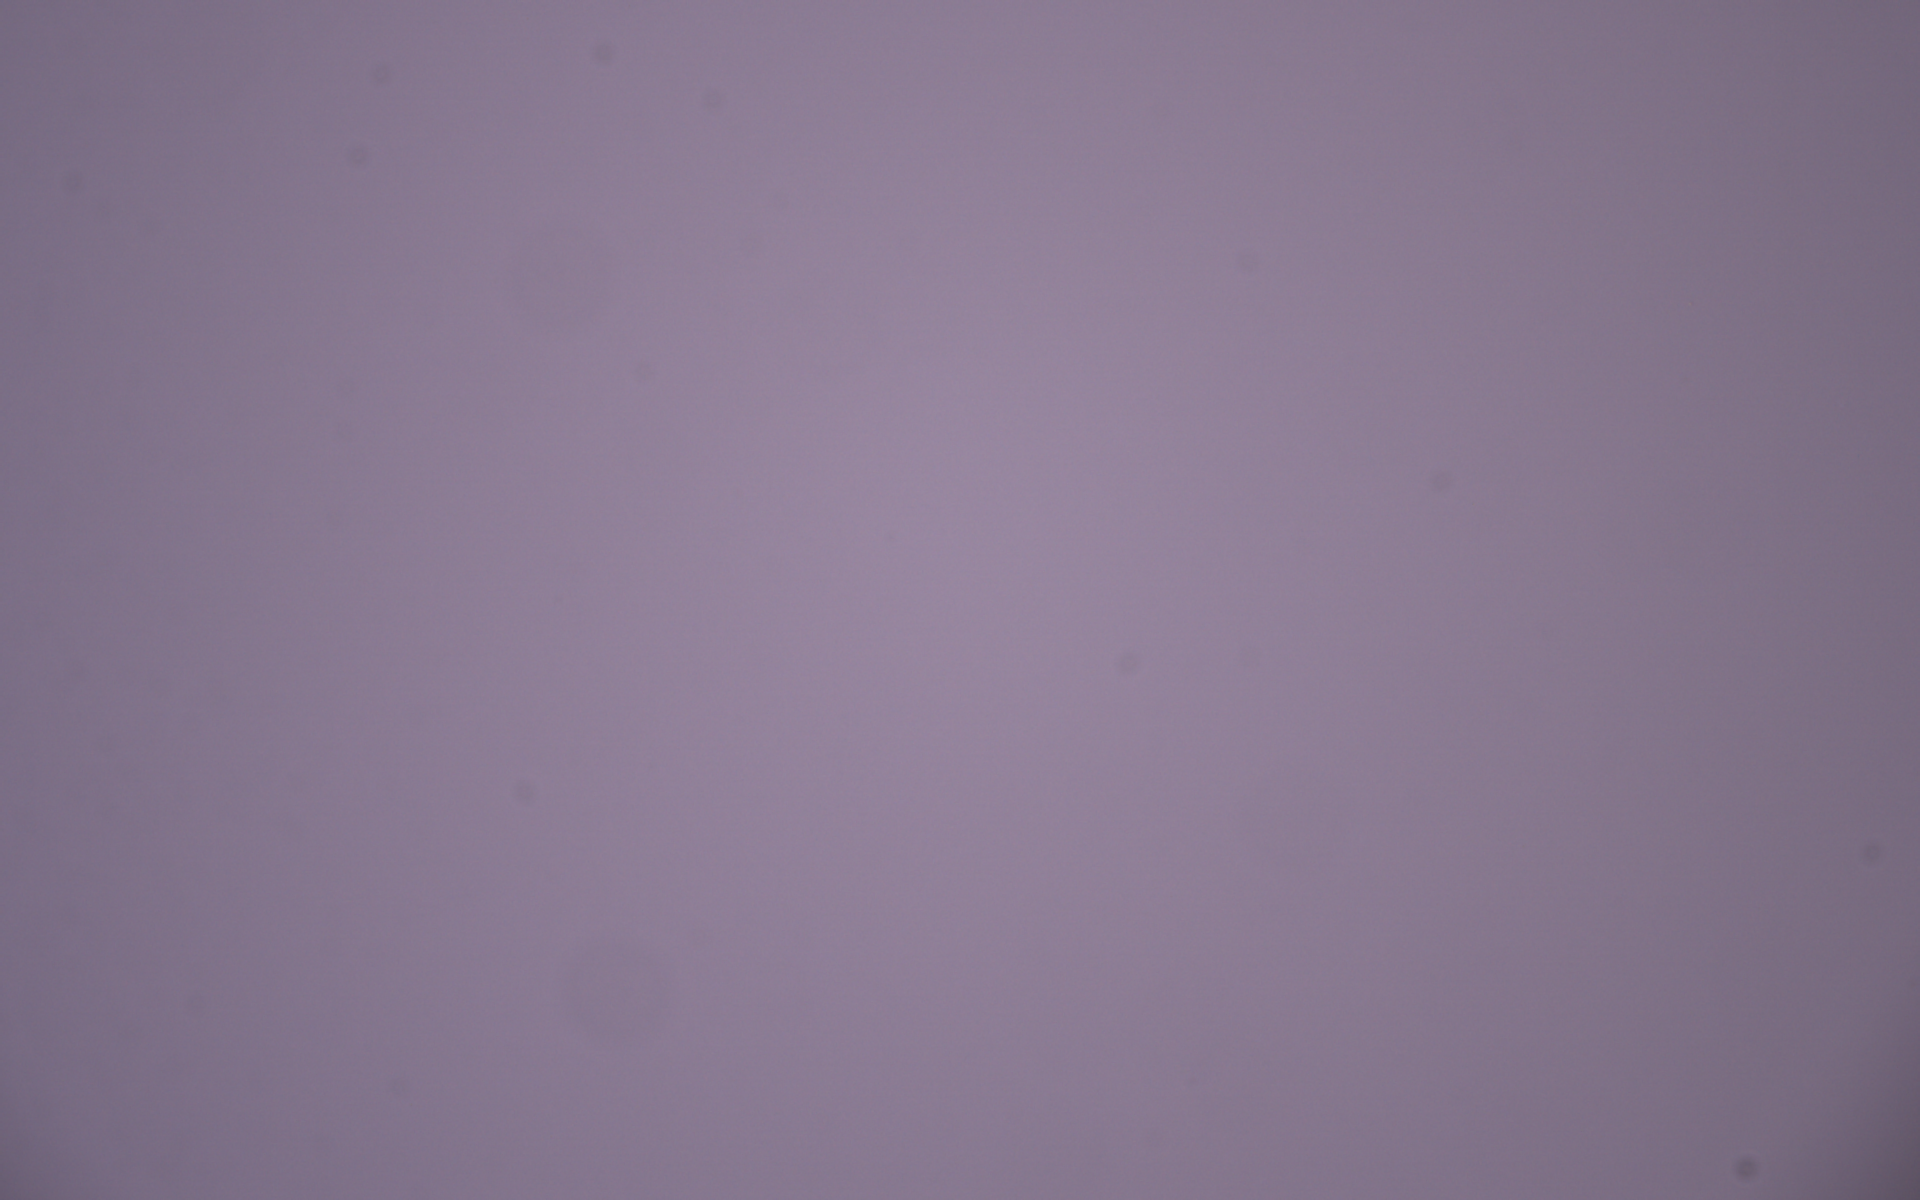
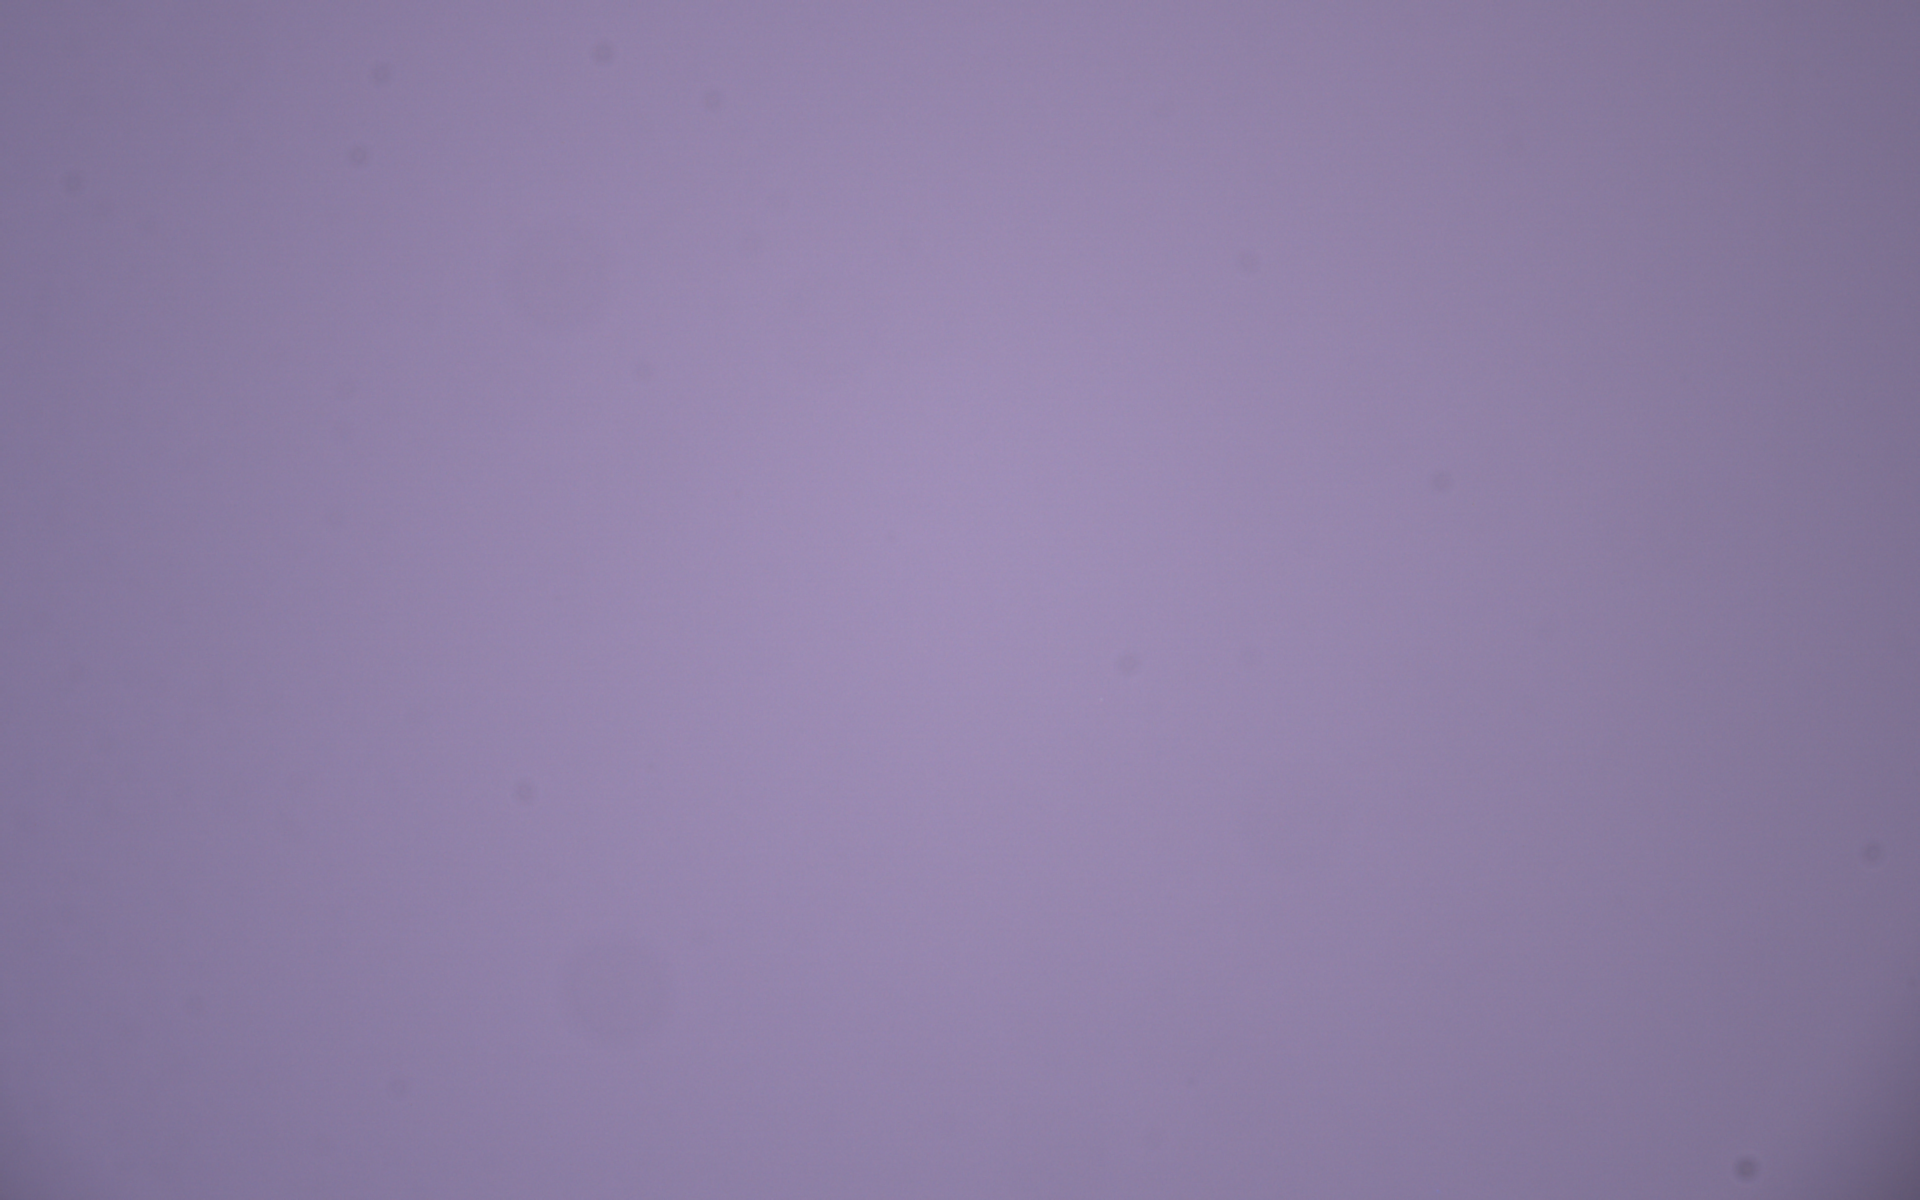
Added Wse2_Params and flatfields Run detection now saves images without vignette

diff --git a/FlakeFinder/Run_Detection_On_Dataset.py b/FlakeFinder/Run_Detection_On_Dataset.py
@@ -8,22 +8,23 @@ import numpy as np
 from skimage.morphology import disk
 
 from Detector.detection_class import detector_class
+from Detector.detector_functions import remove_vignette
 from Utils.etc_functions import *
 from Utils.marker_functions import *
 
 
 # Constants
-IMAGE_DIRECTORY = r"C:\Users\Transfersystem User\Pictures\01_FlakeFinder\dataset"
-SCAN_NAME = "hbn_2109"
-EXFOLIATED_MATERIAL = "hBNml"
+IMAGE_DIRECTORY = r"E:\Datasets"
+SCAN_NAME = "Jan_70nm_Initial_scan"
+EXFOLIATED_MATERIAL = "wse2"
 CHIP_THICKNESS = "70nm"
-MAGNIFICATION = 20
-CUSTOM_BACKGROUND_VALUES = None  # can be [B,G,R] or None
+MAGNIFICATION = 50
+CUSTOM_BACKGROUND_VALUES = [151, 151, 169]  # can be [B,G,R] or None
 
 
 # Some Threshold parameters
 ENTROPY_THRESHOLD = 4
-SIZE_THRESHOLD = 20
+SIZE_THRESHOLD = 5
 SIGMA_THRESHOLD = 500
 
 # -1 if you want to analyse all images
@@ -134,6 +135,8 @@ for idx, (image_name, meta_name) in enumerate(zip(image_names, meta_names)):
             # In short, I will fuck up my Image if im not copying it as I just pass a reference
             # draw_image = image.copy()
 
+            image = remove_vignette(image, flat_field)
+
             # Extract some data from the Dict
             (x, y) = flake["position_bbox"]
             w = flake["width_bbox"]
@@ -166,8 +169,7 @@ for idx, (image_name, meta_name) in enumerate(zip(image_names, meta_names)):
 
         # Now save the Image to its new Home
         cv2.imwrite(
-            os.path.join(save_dir, f"{image_name}"),
-            image,
+            os.path.join(save_dir, f"{image_name}"), image,
         )
 
         # Delete the mask from the dict as it is not json serializable
